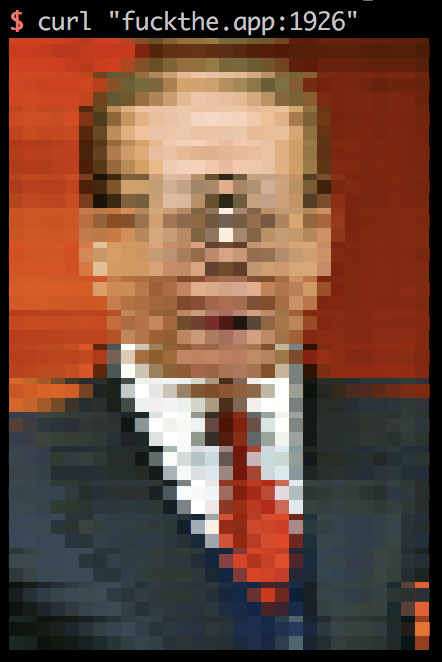
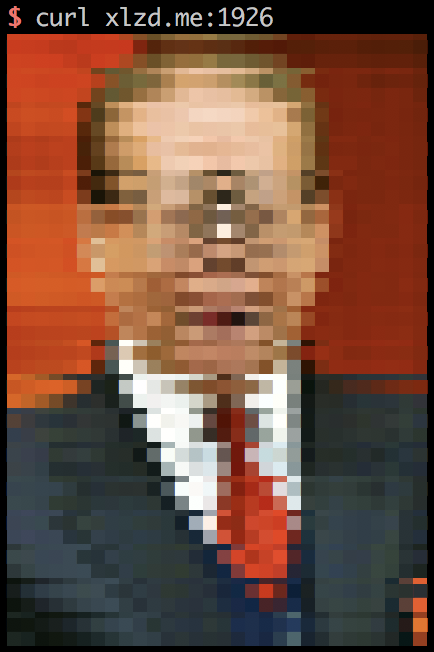
update readme

diff --git a/README.md b/README.md
@@ -6,7 +6,7 @@
 在终端尝试执行下面的命令：
 
 ```bash
-curl "fuckthe.app:1926"
+curl xlzd.me:1926
 ```
 
 ![img](assets/demo-output.png)
